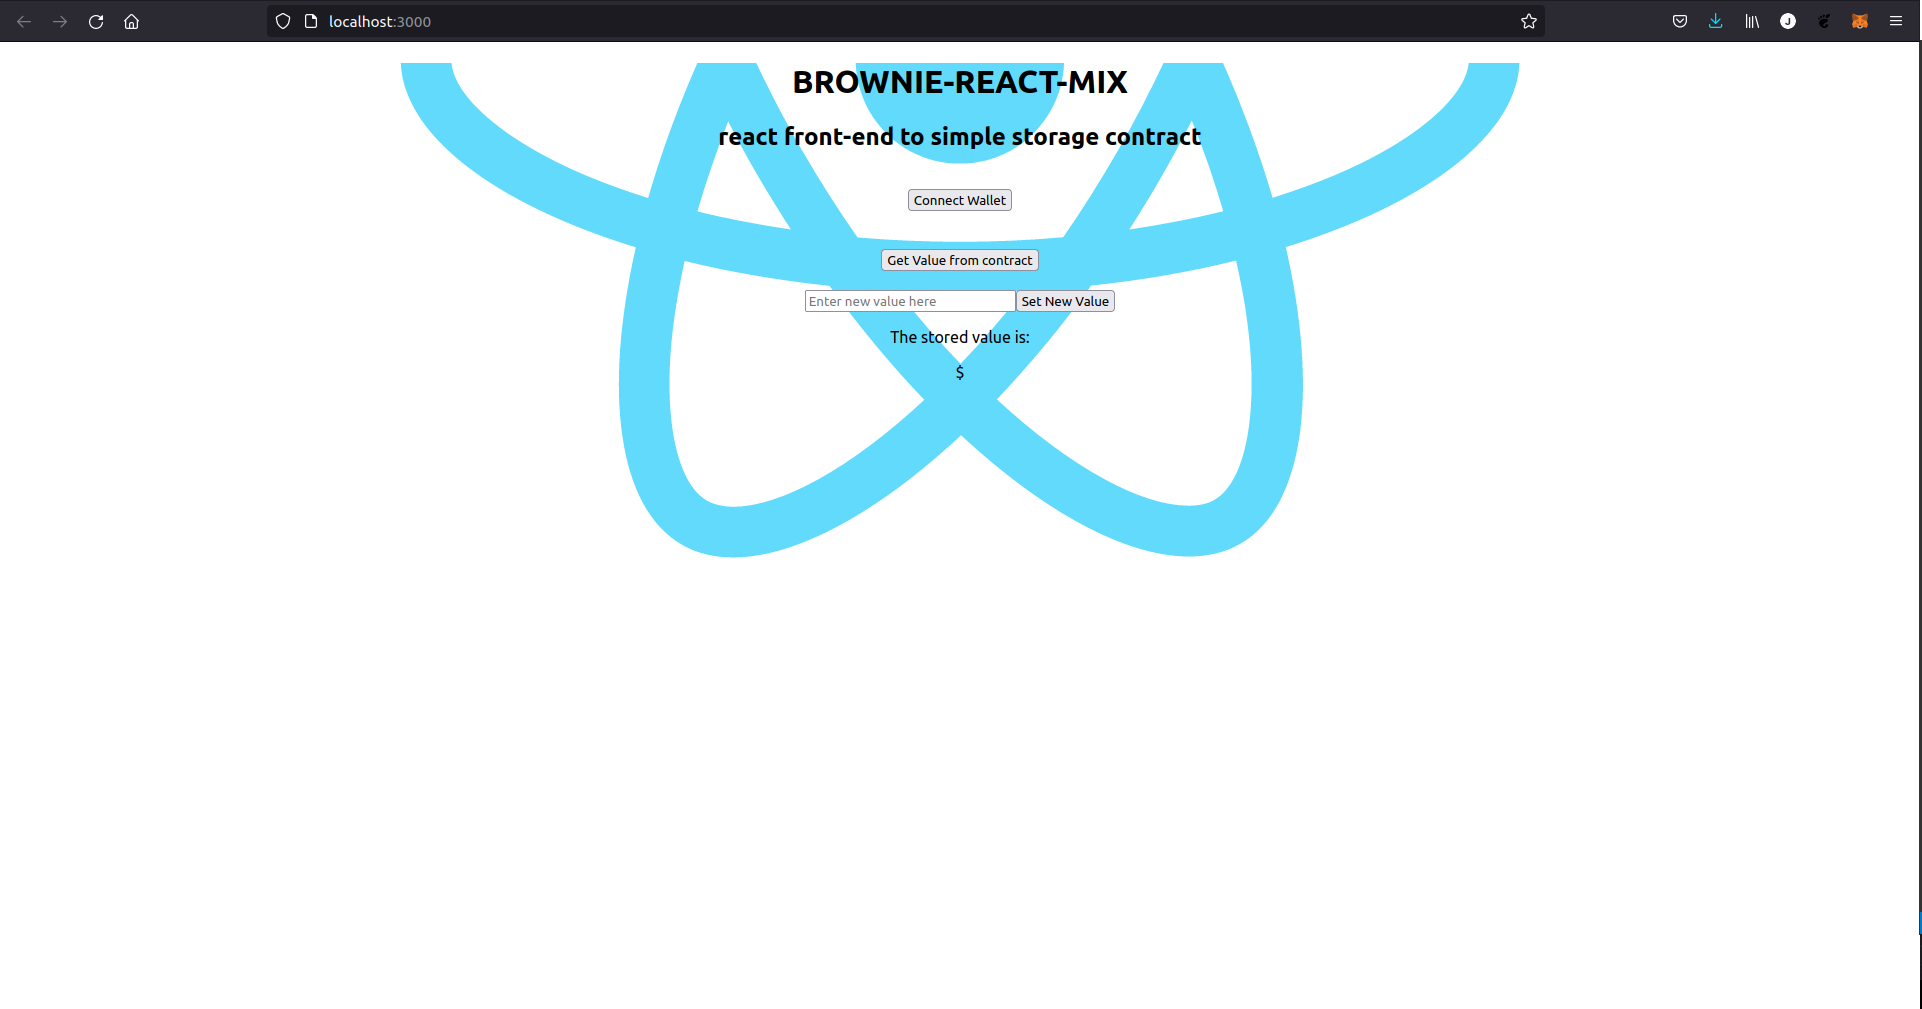
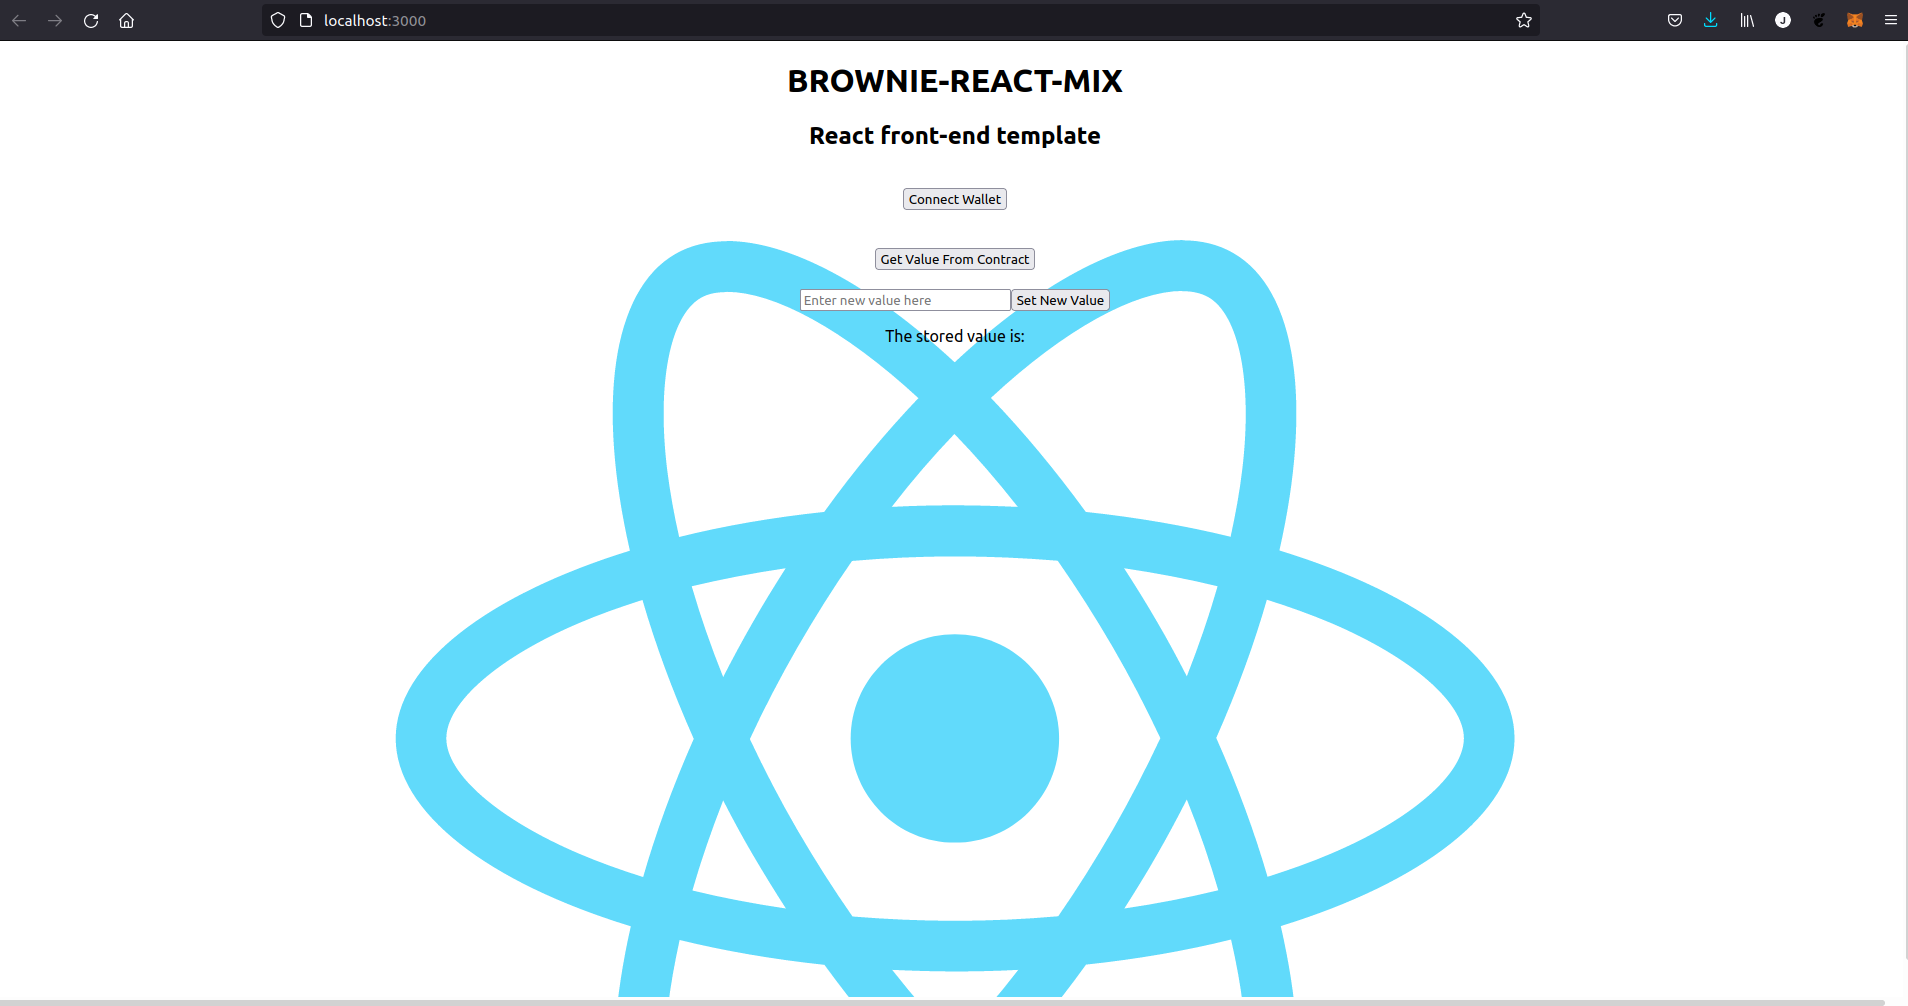
reposition bg img

diff --git a/client/src/App.js b/client/src/App.js
@@ -94,18 +94,19 @@ return (
   <div 
   className="App" 
   style={{ backgroundImage: 'url(' + background + ')',
-  backgroundPosition: 'bottom',
+  backgroundPosition: '',
   backgroundSize: 'cover',
   backgroundRepeat: 'no-repeat',
   width: '100vw',
-  height: '70vh',
+  height: '100vh',
   }}>
   
   <h1>BROWNIE-REACT-MIX </h1>
   <h2>React front-end template</h2>
 
   <br></br>
-  {<button onClick={loadBlockChain}>Connect Wallet</button>}
+  
+  {<button onClick={loadBlockChain} > Connect Wallet</button>}
   <br></br>
   <br></br>
   <br></br>
